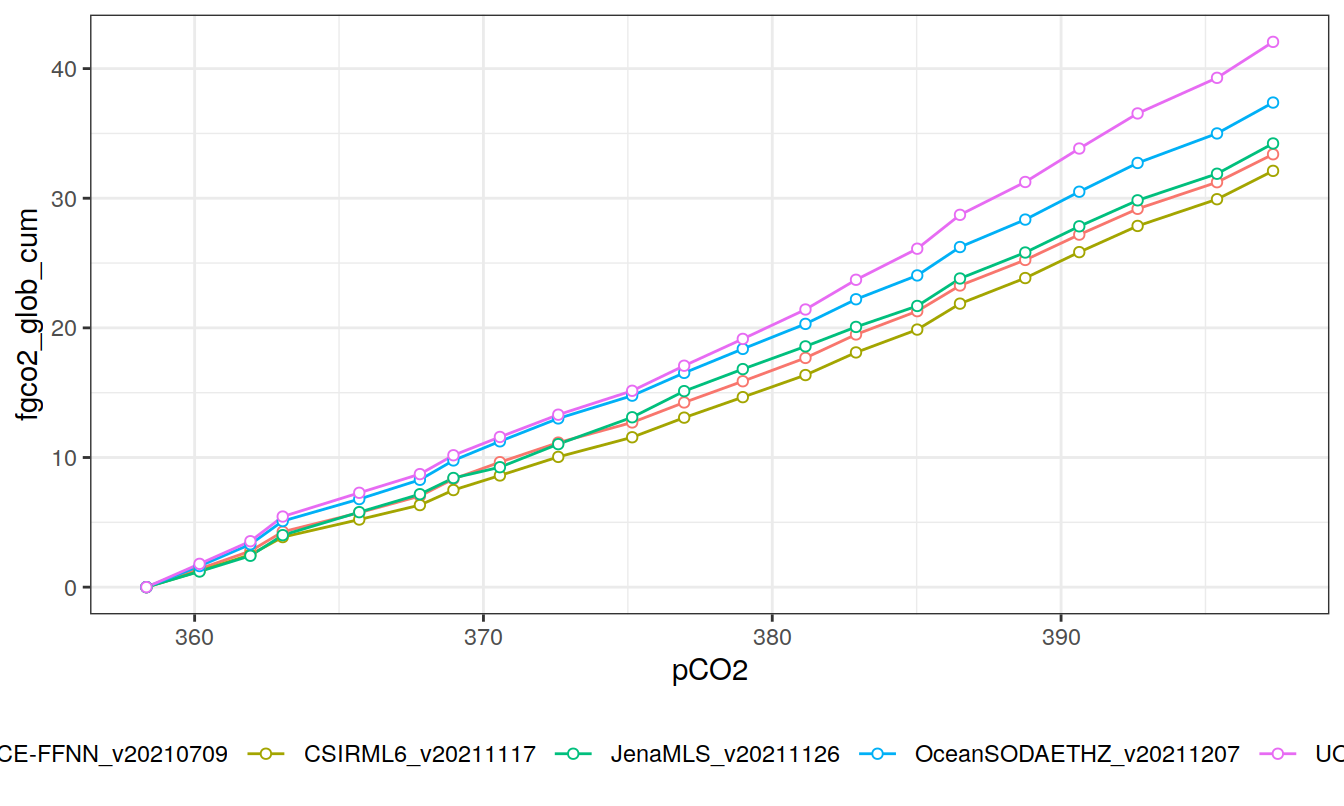
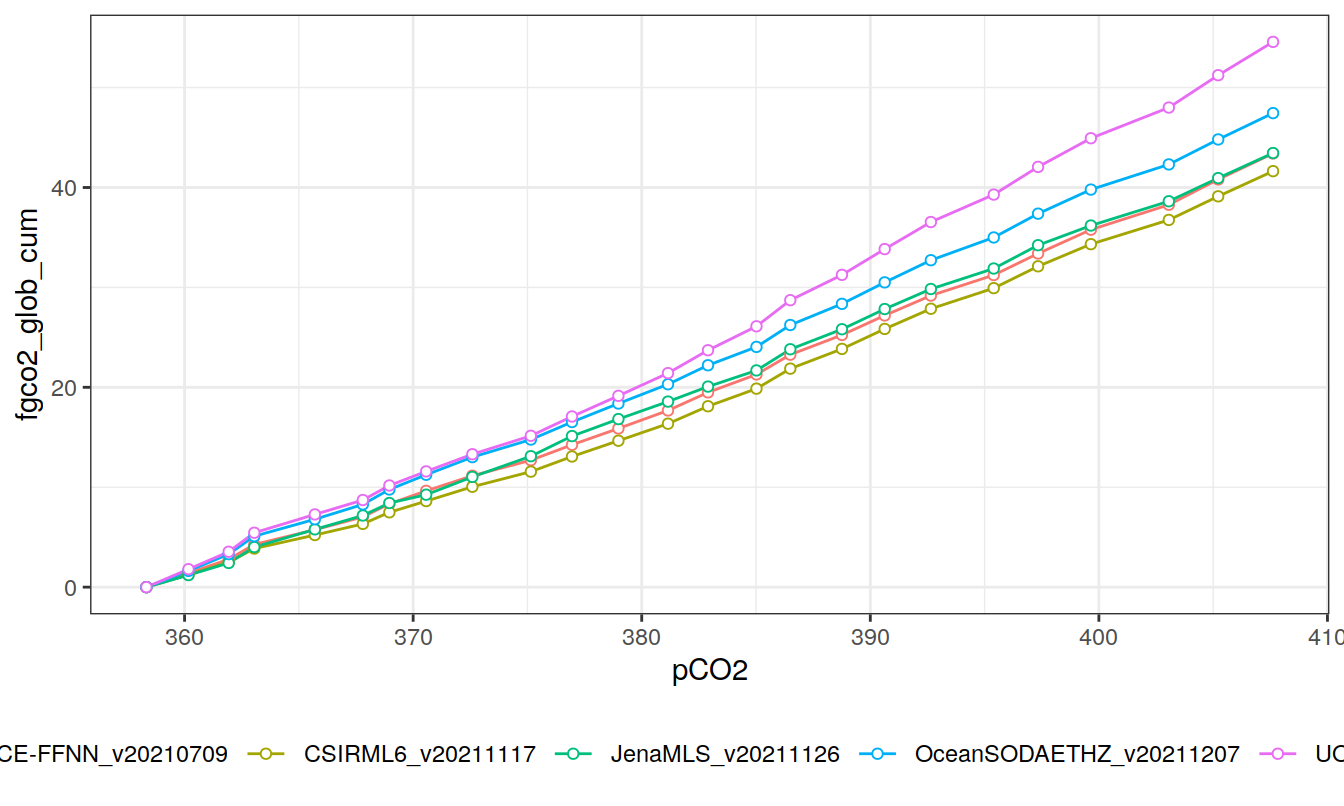
Build site.

diff --git a/docs/results_publication.html b/docs/results_publication.html
@@ -673,16 +673,16 @@ This reproducible <a href="https://rmarkdown.rstudio.com">R Markdown</a> analysi
 <div class="panel panel-default">
 <div class="panel-heading">
 <p class="panel-title">
-<a data-toggle="collapse" data-parent="#workflowr-checks" href="#strongRepositoryversionstrongahrefhttpsgithubcomjensdanielmuelleremlrobsanalysistreec0c3be121693ca0cad58ad9fe9798fc6a735b3d4targetblankc0c3be1a"> <span class="glyphicon glyphicon-ok text-success" aria-hidden="true"></span> <strong>Repository version:</strong> <a href="https://github.com/jens-daniel-mueller/emlr_obs_analysis/tree/c0c3be121693ca0cad58ad9fe9798fc6a735b3d4" target="_blank">c0c3be1</a> </a>
+<a data-toggle="collapse" data-parent="#workflowr-checks" href="#strongRepositoryversionstrongahrefhttpsgithubcomjensdanielmuelleremlrobsanalysistree66d89a9004bf334eb7ee4d35d31b412864fe3ba3targetblank66d89a9a"> <span class="glyphicon glyphicon-ok text-success" aria-hidden="true"></span> <strong>Repository version:</strong> <a href="https://github.com/jens-daniel-mueller/emlr_obs_analysis/tree/66d89a9004bf334eb7ee4d35d31b412864fe3ba3" target="_blank">66d89a9</a> </a>
 </p>
 </div>
[2 lines of base64/hex data omitted]
 <div class="panel-body">
 <p>
 Great! You are using Git for version control. Tracking code development and connecting the code version to the results is critical for reproducibility.
 </p>
 <p>
-The results in this page were generated with repository version <a href="https://github.com/jens-daniel-mueller/emlr_obs_analysis/tree/c0c3be121693ca0cad58ad9fe9798fc6a735b3d4" target="_blank">c0c3be1</a>. See the <em>Past versions</em> tab to see a history of the changes made to the R Markdown and HTML files.
+The results in this page were generated with repository version <a href="https://github.com/jens-daniel-mueller/emlr_obs_analysis/tree/66d89a9004bf334eb7ee4d35d31b412864fe3ba3" target="_blank">66d89a9</a>. See the <em>Past versions</em> tab to see a history of the changes made to the R Markdown and HTML files.
 </p>
 <p>
 Note that you need to be careful to ensure that all relevant files for the analysis have been committed to Git prior to generating the results (you can use <code>wflow_publish</code> or <code>wflow_git_commit</code>). workflowr only checks the R Markdown file, but you know if there are other scripts or data files that it depends on. Below is the status of the Git repository when the results were generated:
@@ -732,6 +732,40 @@ Message
 </tr>
 </thead>
 <tbody>
+<tr>
+<td>
+Rmd
+</td>
+<td>
+<a href="https://github.com/jens-daniel-mueller/emlr_obs_analysis/blob/66d89a9004bf334eb7ee4d35d31b412864fe3ba3/analysis/results_publication.Rmd" target="_blank">66d89a9</a>
+</td>
+<td>
+jens-daniel-mueller
+</td>
+<td>
+2022-02-03
+</td>
+<td>
+added surface flux model products
+</td>
+</tr>
+<tr>
+<td>
+html
+</td>
+<td>
+<a href="https://rawcdn.githack.com/jens-daniel-mueller/emlr_obs_analysis/4077397ad300fbabc546b1e3e1e4f97c574af60d/docs/results_publication.html" target="_blank">4077397</a>
+</td>
+<td>
+jens-daniel-mueller
+</td>
+<td>
+2022-02-03
+</td>
+<td>
+Build site.
+</td>
+</tr>
 <tr>
 <td>
 Rmd
@@ -2775,8 +2809,11 @@ tcant_inv &lt;- tcant_inv %&gt;%
 </div>
 <div id="reccap2-ocean-flux-products" class="section level2" number="2.8">
 <h2><span class="header-section-number">2.8</span> RECCAP2-ocean flux products</h2>
-<pre class="r"><code>RECCAP2_fgco2_glob_all_annual &lt;-
+<pre class="r"><code>RECCAP2_fgco2_glob_all_annual_obs &lt;-
   read_csv(paste0(path_preprocessing,
+                   &quot;RECCAP2_fgco2_glob_all_annual.csv&quot;))</code></pre>
+<pre class="r"><code>RECCAP2_fgco2_glob_all_annual_mod &lt;-
+  read_csv(paste0(path_preprocessing_model,
                    &quot;RECCAP2_fgco2_glob_all_annual.csv&quot;))</code></pre>
 </div>
 </div>
@@ -6576,8 +6613,8 @@ jens-daniel-mueller
 </div>
 <div id="incl-fluxes" class="section level2" number="8.2">
 <h2><span class="header-section-number">8.2</span> incl fluxes</h2>
-<pre class="r"><code>RECCAP2_fgco2_glob_all_annual_cum_1994 &lt;- RECCAP2_fgco2_glob_all_annual %&gt;%
-  filter(year &gt;= 1994, year &lt;= 2014) %&gt;%
+<pre class="r"><code>RECCAP2_fgco2_glob_all_annual_cum_1994 &lt;- RECCAP2_fgco2_glob_all_annual_obs %&gt;%
+  filter(year &gt;= 1994, year &lt;= 2018) %&gt;%
   mutate(fgco2_glob = if_else(year == 1994, 0, fgco2_glob),
          fgco2_glob_corr = fgco2_glob + 0.62) %&gt;% 
   arrange(year) %&gt;%
@@ -6596,10 +6633,111 @@ RECCAP2_fgco2_glob_all_annual_cum_1994 %&gt;%
   geom_point(shape = 21, fill = &quot;white&quot;) +
   theme(legend.position = &quot;bottom&quot;)</code></pre>
 <p><img src="figure/results_publication.Rmd/mean_tcant_over_atm_co2_incl_fluxes-1.png" width="672" style="display: block; margin: auto;" /></p>
+<p>
+<button type="button" class="btn btn-default btn-xs btn-workflowr btn-workflowr-fig" data-toggle="collapse" data-target="#fig-mean_tcant_over_atm_co2_incl_fluxes-1">
+Past versions of mean_tcant_over_atm_co2_incl_fluxes-1.png
+</button>
+</p>
+<div id="fig-mean_tcant_over_atm_co2_incl_fluxes-1" class="collapse">
+<div class="table-responsive">
+<table class="table table-condensed table-hover">
+<thead>
+<tr>
+<th>
+Version
+</th>
+<th>
+Author
+</th>
+<th>
+Date
+</th>
+</tr>
+</thead>
+<tbody>
+<tr>
+<td>
+<a href="https://github.com/jens-daniel-mueller/emlr_obs_analysis/blob/4077397ad300fbabc546b1e3e1e4f97c574af60d/docs/figure/results_publication.Rmd/mean_tcant_over_atm_co2_incl_fluxes-1.png" target="_blank">4077397</a>
+</td>
+<td>
+jens-daniel-mueller
+</td>
+<td>
+2022-02-03
+</td>
+</tr>
+</tbody>
+</table>
+</div>
+</div>
+<pre class="r"><code>RECCAP2_fgco2_glob_all_annual_cum_1994_mod &lt;- RECCAP2_fgco2_glob_all_annual_mod %&gt;%
+  filter(year &gt;= 1994, year &lt;= 2018) %&gt;%
+  mutate(fgco2_glob = if_else(year == 1994, 0, fgco2_glob),
+         fgco2_glob_corr = fgco2_glob) %&gt;% 
+  arrange(year) %&gt;%
+  group_by(product) %&gt;%
+  mutate(fgco2_glob_cum = cumsum(fgco2_glob),
+         fgco2_glob_corr_cum = cumsum(fgco2_glob_corr)) %&gt;%
+  ungroup()
+
+RECCAP2_fgco2_glob_all_annual_cum_1994_mod &lt;-
+left_join(RECCAP2_fgco2_glob_all_annual_cum_1994_mod,
+          co2_atm) 
+
+RECCAP2_fgco2_glob_all_annual_cum_1994_mod %&gt;%
+  ggplot(aes(pCO2, fgco2_glob_cum, col = product)) +
+  geom_line() +
+  geom_point(shape = 21, fill = &quot;white&quot;) +
+  theme(legend.position = &quot;bottom&quot;)</code></pre>
+<p><img src="figure/results_publication.Rmd/mean_tcant_over_atm_co2_incl_fluxes-2.png" width="672" style="display: block; margin: auto;" /></p>
+<p>
+<button type="button" class="btn btn-default btn-xs btn-workflowr btn-workflowr-fig" data-toggle="collapse" data-target="#fig-mean_tcant_over_atm_co2_incl_fluxes-2">
+Past versions of mean_tcant_over_atm_co2_incl_fluxes-2.png
+</button>
+</p>
+<div id="fig-mean_tcant_over_atm_co2_incl_fluxes-2" class="collapse">
+<div class="table-responsive">
+<table class="table table-condensed table-hover">
+<thead>
+<tr>
+<th>
+Version
+</th>
+<th>
+Author
+</th>
+<th>
+Date
+</th>
+</tr>
+</thead>
+<tbody>
+<tr>
+<td>
+<a href="https://github.com/jens-daniel-mueller/emlr_obs_analysis/blob/4077397ad300fbabc546b1e3e1e4f97c574af60d/docs/figure/results_publication.Rmd/mean_tcant_over_atm_co2_incl_fluxes-2.png" target="_blank">4077397</a>
+</td>
+<td>
+jens-daniel-mueller
+</td>
+<td>
+2022-02-03
+</td>
+</tr>
+</tbody>
+</table>
+</div>
+</div>
 <pre class="r"><code>RECCAP2_fgco2_glob_all_annual_cum_1994 &lt;- RECCAP2_fgco2_glob_all_annual_cum_1994 %&gt;% 
   mutate(fgco2_glob_cum = fgco2_glob_cum + 102,
          fgco2_glob_corr_cum = fgco2_glob_corr_cum + 102) %&gt;%
   select(pCO2, product, fgco2_glob_cum, fgco2_glob_corr_cum)
+
+RECCAP2_fgco2_glob_all_annual_cum_1994_mod &lt;- RECCAP2_fgco2_glob_all_annual_cum_1994_mod %&gt;% 
+  mutate(fgco2_glob_cum = fgco2_glob_cum + 102,
+         fgco2_glob_corr_cum = fgco2_glob_corr_cum + 102) %&gt;%
+  select(pCO2, product, fgco2_glob_cum, fgco2_glob_corr_cum)
+
+
 
 tcant_ts &lt;- tcant_ts %&gt;%
     filter(year != 1750)
@@ -6609,17 +6747,19 @@ tcant_ts %&gt;%
   ggplot(aes(pCO2, tcant)) +
   geom_ribbon(aes(ymin = tcant - tcant_sd, ymax = tcant + tcant_sd), fill = &quot;grey50&quot;,
               alpha = 0.2) +
+  geom_line(data = RECCAP2_fgco2_glob_all_annual_cum_1994_mod,
+            aes(pCO2, fgco2_glob_corr_cum, group = product, col=&quot;Models&quot;)) +
   geom_line(data = RECCAP2_fgco2_glob_all_annual_cum_1994,
-            aes(pCO2, fgco2_glob_corr_cum, group = product, col=&quot;Surface flux products&quot;)) +
+            aes(pCO2, fgco2_glob_corr_cum, group = product, col=&quot;pCO2 observations&quot;)) +
   geom_linerange(aes(ymin = tcant - dcant_sd, ymax = tcant + dcant_sd)) +
   geom_line(aes(col = &quot;eMLR(C*) estimate&quot;)) +
-  scale_color_manual(values = c(&quot;black&quot;, &quot;red&quot;)) +
+  scale_color_manual(values = c(&quot;black&quot;, &quot;red&quot;, &quot;blue&quot;)) +
   labs(x = expression(Atmospheric~pCO[2]~(µatm)),
        y = expression(Total~oceanic~C[ant]~(PgC))) +
   theme(legend.title = element_blank(),
         legend.background = element_rect(fill = &quot;transparent&quot;),
         legend.position=c(0.85, 0.2))</code></pre>
-<p><img src="figure/results_publication.Rmd/mean_tcant_over_atm_co2_incl_fluxes-2.png" width="672" style="display: block; margin: auto;" /></p>
+<p><img src="figure/results_publication.Rmd/mean_tcant_over_atm_co2_incl_fluxes-3.png" width="672" style="display: block; margin: auto;" /></p>
 <pre class="r"><code># ggsave(path = &quot;output/publication&quot;,
 #        filename = &quot;Fig_global_dcant_budget_vs_atm_pCO2.png&quot;,
 #        height = 4,
